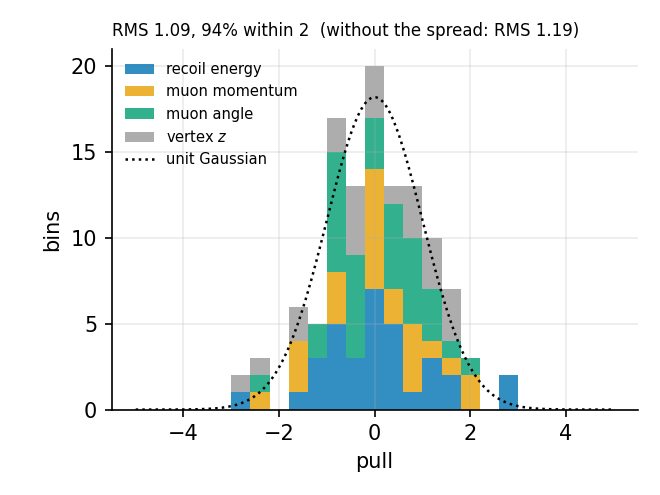
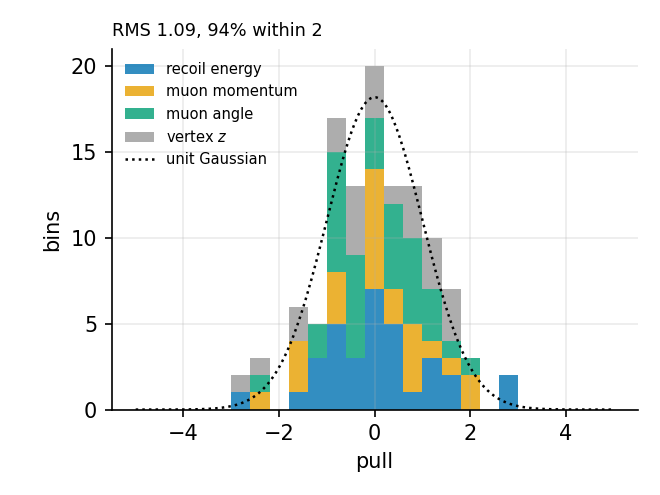
Pulls figure without the no-spread RMS; overall pull macros (nEnsPullAll*) into the paper numbers
Claude-Session: https://claude.ai/code/session_01WonotUddxf69Fsc1KRUvp3

Changed region(s): [[0.1818, 0.0303, 0.8788, 0.0909]]

diff --git a/scripts/paper_macros_all.py b/scripts/paper_macros_all.py
@@ -12,7 +12,7 @@ P = pathlib.Path(a.paper); tmp = pathlib.Path("reports/all_events/paper_numbers.
 subprocess.run([sys.executable, "scripts/technote_numbers.py", a.eval, str(tmp), "--m1", "none", "--holdout", a.holdout], check=True, capture_output=True)
 subprocess.run([sys.executable, "scripts/paper_closure_macros.py"], check=True, capture_output=True)
 parts = ["% Generated by scripts/paper_macros_all.py: all-events models evaluated on CC nu_mu events (technote numbers, closure by subset, pull subsets, 2p2h reachability).\n",
-         tmp.read_text(), pathlib.Path("reports/all_events/closure_macros.tex").read_text(), pathlib.Path("reports/coverage_2p2h/macros.tex").read_text(), pathlib.Path("reports/ensemble/macros.tex").read_text()]
+         tmp.read_text(), pathlib.Path("reports/all_events/closure_macros.tex").read_text(), pathlib.Path("reports/coverage_2p2h/macros.tex").read_text(), pathlib.Path("reports/ensemble/macros.tex").read_text(), pathlib.Path("reports/ensemble/pull_macros.tex").read_text()]
 # marginal pulls of the four non-calorimetry observables with the surrogate's own uncertainty (as the pull figures), A and B, control and held-out 2p2h
 KEYS = ("marg_recoil", "marg_muP", "marg_dthx", "marg_nprong"); ci = ["% marginal pulls on the CC nu_mu control and the held-out 2p2h events (calibration with the CC nu_mu control subset)\n"]
 for m in "AB":

diff --git a/scripts/paper_fig_ensemble.py b/scripts/paper_fig_ensemble.py
@@ -51,5 +51,6 @@ for k in KEYS:
 allp = np.concatenate(list(P.values())); all0 = np.concatenate(list(P0.values()))
 ax.hist([np.clip(P[k], -4.99, 4.99) for k in KEYS], b, stacked=True, label=list(KEYS.values()), color=COL, alpha=0.8)
 ax.plot(xx, len(allp) * (b[1] - b[0]) * np.exp(-xx ** 2 / 2) / np.sqrt(2 * np.pi), "k:", lw=1.2, label="unit Gaussian")
-ax.set_xlabel("pull"); ax.set_ylabel("bins"); ax.set_title(f"RMS {np.sqrt(np.mean(allp ** 2)):.2f}, {100 * np.mean(np.abs(allp) < 2):.0f}% within 2  (without the spread: RMS {np.sqrt(np.mean(all0 ** 2)):.2f})", fontsize=8, loc="left")
+ax.set_xlabel("pull"); ax.set_ylabel("bins"); ax.set_title(f"RMS {np.sqrt(np.mean(allp ** 2)):.2f}, {100 * np.mean(np.abs(allp) < 2):.0f}% within 2", fontsize=8.5, loc="left")
 ax.legend(frameon=False, fontsize=7, loc="upper left"); plots.save(fig, out / "ensemble_pulls.png"); print("written", out / "ensemble_pulls.png")
+pathlib.Path(a.spread).parent.joinpath("pull_macros.tex").write_text("% pulls of the marginal bin fractions, all four observables (scripts/paper_fig_ensemble.py)\n" + f"\\newcommand{{\\nEnsPullAllRMS}}{{{np.sqrt(np.mean(allp ** 2)):.2f}}}\n\\newcommand{{\\nEnsPullAllWithin}}{{{100 * np.mean(np.abs(allp) < 2):.0f}\\%}}\n\\newcommand{{\\nEnsPullAllBins}}{{{len(allp)}}}\n\\newcommand{{\\nEnsPullAllRMSnoens}}{{{np.sqrt(np.mean(all0 ** 2)):.2f}}}\n")

diff --git a/reports/ensemble/pull_macros.tex b/reports/ensemble/pull_macros.tex
@@ -1,0 +1,5 @@
+% pulls of the marginal bin fractions, all four observables (scripts/paper_fig_ensemble.py)
+\newcommand{\nEnsPullAllRMS}{1.09}
+\newcommand{\nEnsPullAllWithin}{94\%}
+\newcommand{\nEnsPullAllBins}{114}
+\newcommand{\nEnsPullAllRMSnoens}{1.19}
